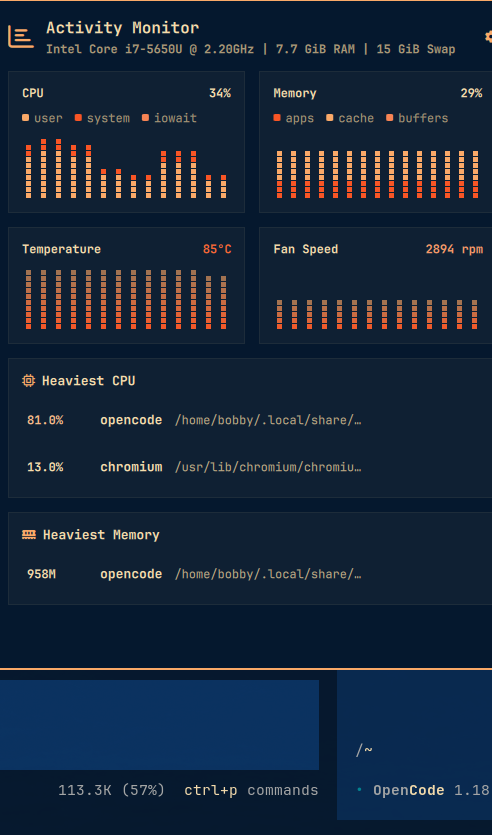
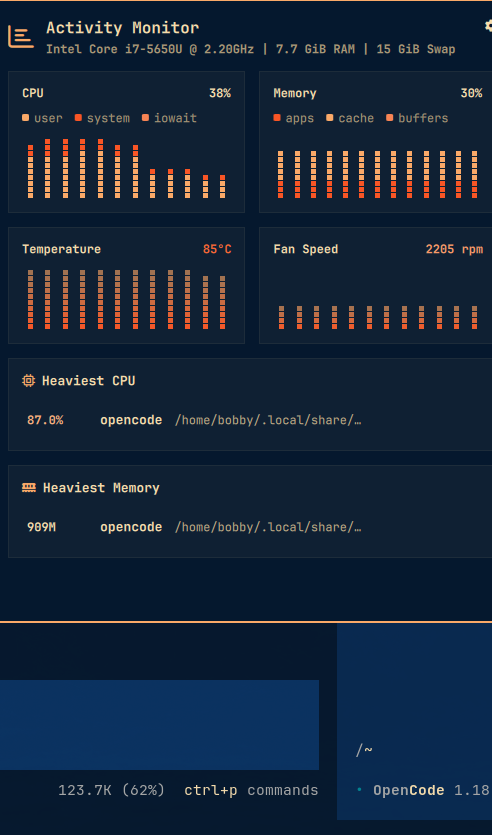
Align settings gear with the title line; persistent white glyph
The gear was centered on the header row, which sits lower than the 'Activity
Monitor' heading once the CPU/RAM subtitle is present. It now anchors to the
title line's vertical center. Its color is a persistent foreground white
(root.baseColor) matching the panel text, dropping the accent/hover/open
color shifts. Previews refreshed.

diff --git a/SystemPanel.qml b/SystemPanel.qml
@@ -239,6 +239,7 @@ Text {
               spacing: Style.space(2)
 
               Text {
+                id: headerTitle
                 textFormat: Text.PlainText
                 text: "Activity Monitor"
                 color: root.baseColor
@@ -266,22 +267,21 @@ Text {
             }
           }
 
-          // Gear Icon for In-Panel Settings — a bare glyph in the header's
-          // top-right corner, no box around it.
+          // Gear Icon for In-Panel Settings — a bare glyph pinned to the header's
+          // top-right corner, aligned with the "Activity Monitor" title line,
+          // and a persistent foreground white like the rest of the panel text.
           Item {
             id: settingsButton
             implicitWidth: settingsGlyph.implicitWidth
             implicitHeight: settingsGlyph.implicitHeight
             anchors.right: parent.right
-            anchors.verticalCenter: parent.verticalCenter
+            anchors.verticalCenter: headerTitle.verticalCenter
 
             Text {
               id: settingsGlyph
               anchors.centerIn: parent
               text: "\uF013"
-              color: root.settingsOpen
-                ? root.hotColor
-                : (settingsHover.containsMouse ? root.baseColor : Color.accent)
+              color: root.baseColor
               font.family: root.fontFamily
               font.pixelSize: Style.font.bodySmall
             }
